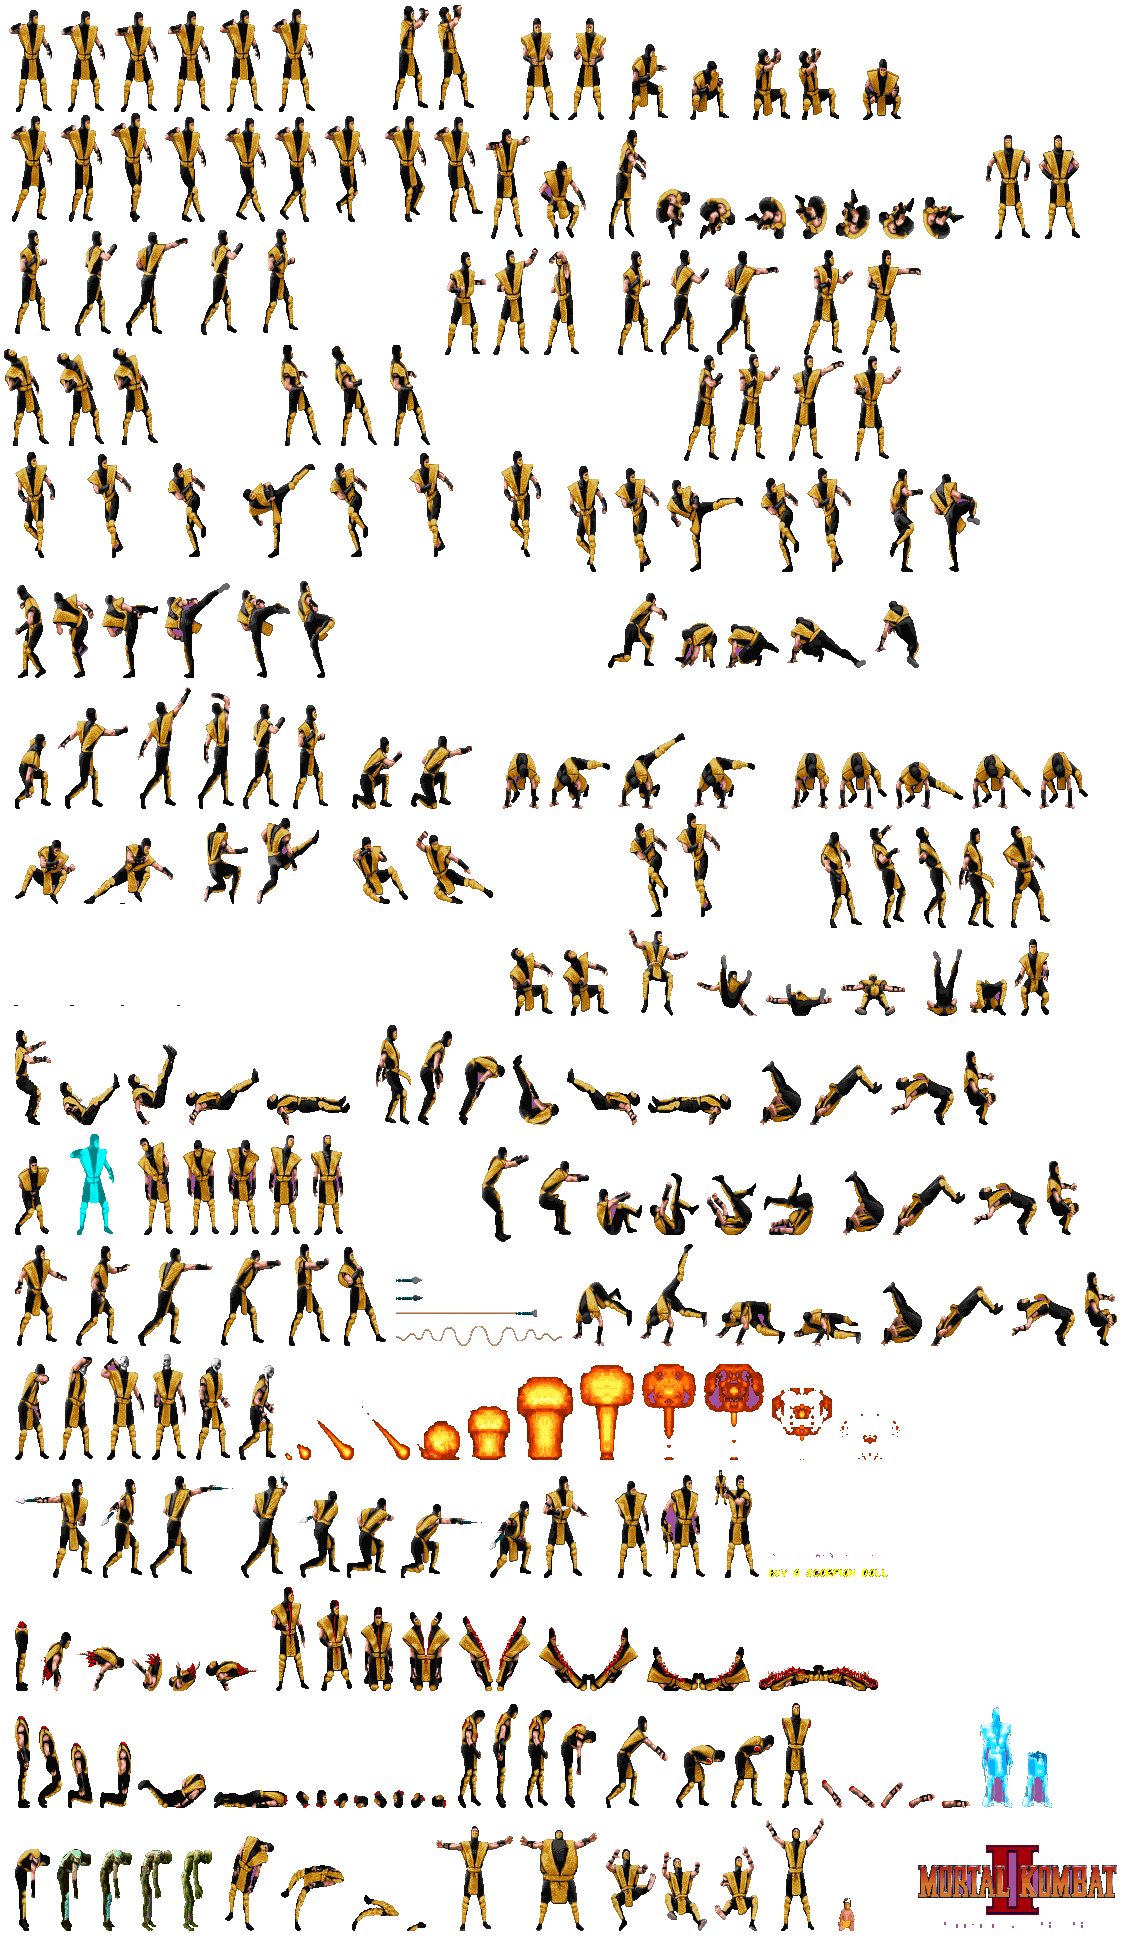
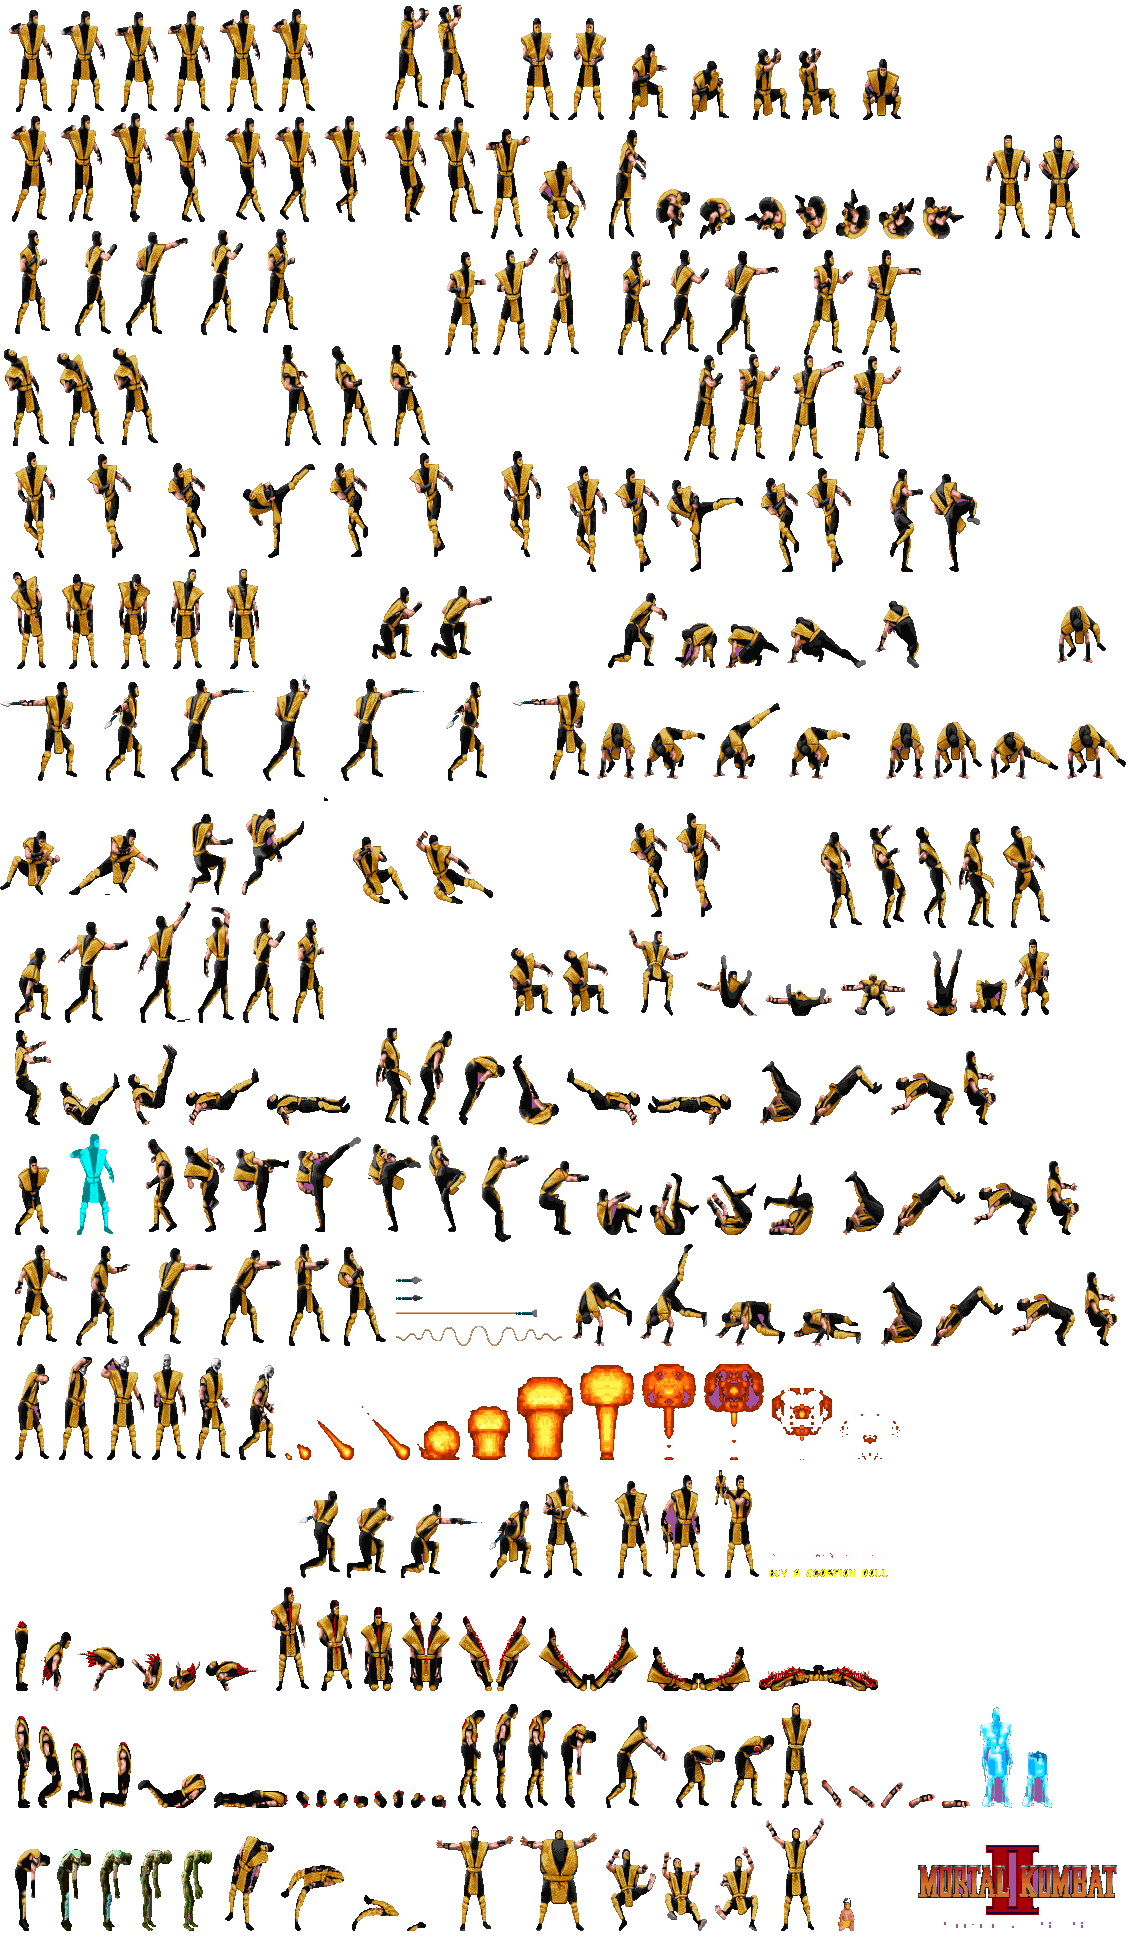
add kick collision and scorpion fatalities with resurrection bug

diff --git a/core/hero.c b/core/hero.c
@@ -53,11 +53,28 @@ void hero_init(SDL_Renderer* renderer, hero_t* hero, SDL_Rect sprite_rect, const
     animation_set_loop(&kick_anim, 0);
     kick_anim.name = KICK;
 
+    animation_t die_anim;
+    animation_init(&die_anim, 5, 100, create_rect(0, 560, 54, 112));
+    die_anim.name = DIE;
+
+    animation_t fatality_anim;
+    animation_init(&fatality_anim, 5, 100, create_rect(0, 672, 85, 112));
+    animation_set_loop(&fatality_anim, 0);
+    fatality_anim.name = FATALITY;
+
+    animation_t get_fatality_anim;
+    animation_init(&get_fatality_anim, 6, 140, create_rect(0, 784, 80, 112));
+    animation_set_loop(&get_fatality_anim, 0);
+    get_fatality_anim.name = GET_FATALITY;
+
     hero->animations[IDLE] = idle_anim;
     hero->animations[WALK] = walk_anim;
     hero->animations[PUNCH] = punch_anim;
     hero->animations[GET_PUNCH] = get_punch_anim;
     hero->animations[KICK] = kick_anim;
+    hero->animations[FATALITY] = fatality_anim;
+    hero->animations[GET_FATALITY] = get_fatality_anim;
+    hero->animations[DIE] = die_anim;
 
     hero->curr_anim = idle_anim;
     animation_play(&hero->curr_anim, &hero->sprite);
@@ -65,56 +82,69 @@ void hero_init(SDL_Renderer* renderer, hero_t* hero, SDL_Rect sprite_rect, const
 
 void hero_input(SDL_Renderer* renderer, hero_t* hero, int num_keys_pressed, const Uint8* keys) 
 {
-    if(num_keys_pressed > 0 && (hero->curr_anim.name == IDLE || hero->curr_anim.name == WALK))
+    if(hero->health > 0)
     {
-        if(keys[hero->keycode_input[INPUT_PUNCH]]) 
+        if(num_keys_pressed > 0 && (hero->curr_anim.name == IDLE || hero->curr_anim.name == WALK))
         {
-            hero->character.speed.x = 0;
-            hero->curr_anim = hero->animations[PUNCH];
-            animation_play(&hero->curr_anim, &hero->sprite);
-        }
-        else if(keys[hero->keycode_input[INPUT_KICK]])
-        {
-            hero->character.speed.x = 0;
-            hero->curr_anim = hero->animations[KICK];
-            animation_play(&hero->curr_anim, &hero->sprite);                                                                             
-        }
-        else if(keys[hero->keycode_input[INPUT_WALK_LEFT]])
-        {
-            hero->character.speed.x = -(hero->move_speed.x);
-            if(hero->curr_anim.name != WALK)
+            if(keys[hero->keycode_input[INPUT_PUNCH]]) 
             {
-                hero->curr_anim = hero->animations[WALK];
-                if(hero->player == Player_One)
-                    animation_set_reversed(&hero->curr_anim);
+                hero->character.speed.x = 0;
+                hero->curr_anim = hero->animations[PUNCH];
+                animation_play(&hero->curr_anim, &hero->sprite);
+            }
+            else if(keys[hero->keycode_input[INPUT_KICK]])
+            {
+                hero->character.speed.x = 0;
+                hero->curr_anim = hero->animations[KICK];
+                animation_play(&hero->curr_anim, &hero->sprite);                                                                             
+            }
+            else if(keys[hero->keycode_input[INPUT_WALK_LEFT]])
+            {
+                hero->character.speed.x = -(hero->move_speed.x);
+                if(hero->curr_anim.name != WALK)
+                {
+                    hero->curr_anim = hero->animations[WALK];
+                    if(hero->player == Player_One)
+                        animation_set_reversed(&hero->curr_anim);
+                    animation_play(&hero->curr_anim, &hero->sprite);   
+                }
+            }
+            else if(keys[hero->keycode_input[INPUT_WALK_RIGHT]]) 
+            {
+                hero->character.speed.x = hero->move_speed.x;
+                if(hero->curr_anim.name != WALK)
+                {
+                    hero->curr_anim = hero->animations[WALK];
+                    if(hero->player == Player_Two)
+                        animation_set_reversed(&hero->curr_anim);
+                    animation_play(&hero->curr_anim, &hero->sprite);  
+                }
+            }
+            else if(keys[hero->keycode_input[INPUT_FATALITY]])
+            {
+                if(hero->rival && hero->rival->health <= 0 && hero->rival->curr_anim.name != GET_FATALITY) 
+                {
+                    hero->curr_anim = hero->animations[FATALITY];
+                    animation_play(&hero->curr_anim, &hero->sprite);   
+                    hero_get_fatality(hero->rival);
+                }
+            }
+            
+            if(keys[SDL_SCANCODE_SPACE]) 
+            {
+                //hero->health = 0;
+                hero->curr_anim = hero->animations[FATALITY];
                 animation_play(&hero->curr_anim, &hero->sprite);   
             }
         }
-        else if(keys[hero->keycode_input[INPUT_WALK_RIGHT]]) 
+        else 
         {
-            hero->character.speed.x = hero->move_speed.x;
-            if(hero->curr_anim.name != WALK)
+            hero->character.speed.x = 0;
+            if(hero->curr_anim.is_playing == 0 || hero->curr_anim.name == WALK)
             {
-                hero->curr_anim = hero->animations[WALK];
-                if(hero->player == Player_Two)
-                    animation_set_reversed(&hero->curr_anim);
-                animation_play(&hero->curr_anim, &hero->sprite);  
+            hero->curr_anim = hero->animations[IDLE];
+            animation_play(&hero->curr_anim, &hero->sprite);  
             }
-        }
-        //debug if
-        // if(event->key.keysym.sym == SDLK_ctrl) 
-        // {
-        //     hero->curr_anim = hero->animations[GET_PUNCH];
-        //     animation_play(&hero->curr_anim, &hero->sprite);   
-        // }
-    }
-    else 
-    {
-        hero->character.speed.x = 0;
-        if(hero->curr_anim.is_playing == 0 || hero->curr_anim.name == WALK)
-        {
-           hero->curr_anim = hero->animations[IDLE];
-           animation_play(&hero->curr_anim, &hero->sprite);  
         }
     }
 }
@@ -150,14 +180,16 @@ void on_collision_enter(collider_t* my_collider, collider_t* other_collider)
 {
     hero_t* my_hero = (hero_t*) my_collider->owner;
     hero_t* other_hero = (hero_t*) other_collider->owner;
-    //SDL_Log("my_hero health %d", my_hero->health);
-    //SDL_Log("other_hero health %d", other_hero->health);
 
     if(other_hero)
     {
         if(my_hero->curr_anim.name == PUNCH && my_hero->curr_anim.curr_frame == 2) 
         {
             hero_get_punch(other_hero, my_hero->punch_damage);
+        }
+        else if(my_hero->curr_anim.name == KICK && my_hero->curr_anim.curr_frame == 4) 
+        {
+            hero_get_kick(other_hero, my_hero->kick_damage);
         }
     }
 }
@@ -177,8 +209,22 @@ void hero_get_punch(hero_t* hero, int damage)
     }
 }
 
+void hero_get_kick(hero_t* hero, int damage)
+{
+    //to modify
+    hero_get_punch(hero, hero->kick_damage);
+}
+
+void hero_get_fatality(hero_t* hero) 
+{
+    hero->curr_anim = hero->animations[GET_FATALITY];
+    animation_play(&hero->curr_anim, &hero->sprite);   
+}
+
 void hero_die(hero_t* hero)
 {
-    SDL_Log("Die");
+    hero->character.speed.x = 0;
+    hero->curr_anim = hero->animations[DIE];
+    animation_play(&hero->curr_anim, &hero->sprite);   
 }
 

diff --git a/main.c b/main.c
@@ -21,8 +21,8 @@ int main(int argc, char** args)
     SDL_Rect sprite_rect;
     sprite_rect.x = 150;
     sprite_rect.y = 300;
-    sprite_rect.w = 70;
-    sprite_rect.h = 132;
+    sprite_rect.w = 100;
+    sprite_rect.h = 150;
 
     hero_t hero, hero2;
     hero_init(renderer, &hero, sprite_rect, "Assets/Heroes/sub_zero_sheet.png", Player_One);
@@ -30,6 +30,7 @@ int main(int argc, char** args)
     hero.keycode_input[INPUT_WALK_LEFT] = SDL_SCANCODE_A;
     hero.keycode_input[INPUT_PUNCH] = SDL_SCANCODE_F;
     hero.keycode_input[INPUT_KICK] = SDL_SCANCODE_G;
+    hero.keycode_input[INPUT_FATALITY] = SDL_SCANCODE_E;
 
     sprite_rect.x *= 2;  //era *3
     hero_init(renderer, &hero2, sprite_rect, "Assets/Heroes/scorpion_sheet.png", Player_Two);
@@ -37,7 +38,11 @@ int main(int argc, char** args)
     hero2.keycode_input[INPUT_WALK_LEFT] = SDL_SCANCODE_LEFT;
     hero2.keycode_input[INPUT_PUNCH] = SDL_SCANCODE_L;
     hero2.keycode_input[INPUT_KICK] = SDL_SCANCODE_K;
+    hero2.keycode_input[INPUT_FATALITY] = SDL_SCANCODE_P;
     hero_flip_X(&hero2);
+
+    hero.rival = &hero2;
+    hero2.rival = &hero;
 
     collision_mng_add_collider(&collision_mng, &hero.collider);
     collision_mng_add_collider(&collision_mng, &hero2.collider);
@@ -81,7 +86,6 @@ int main(int argc, char** args)
         //all draw
         hero_draw(renderer, &hero);
         hero_draw(renderer, &hero2);
-        //sprite_draw(renderer, &sprite);
 
         SDL_RenderPresent(renderer);
     }

diff --git a/core/header/hero.h b/core/header/hero.h
@@ -7,11 +7,16 @@
 #define PUNCH 2
 #define GET_PUNCH 3
 #define KICK 4
+#define GET_KICK 5
+#define FATALITY 6
+#define GET_FATALITY 7
+#define DIE 8
 
 #define INPUT_WALK_RIGHT  0
 #define INPUT_WALK_LEFT  1
 #define INPUT_PUNCH 2
 #define INPUT_KICK 3
+#define INPUT_FATALITY 4
 
 enum Player {Player_One = 1, Player_Two = 2};
 
@@ -26,8 +31,9 @@ typedef struct hero
     character_t character;
     collider_t collider;
     animation_t curr_anim;
-    animation_t animations[KICK + 1];
-    SDL_Keycode keycode_input[INPUT_KICK + 1]; 
+    animation_t animations[DIE + 1];
+    SDL_Keycode keycode_input[INPUT_FATALITY + 1]; 
+    struct hero* rival;
 } hero_t;
 
 void hero_init(SDL_Renderer* renderer, hero_t* hero, SDL_Rect sprite_rect, const char* texture_name, enum Player player);
@@ -36,6 +42,8 @@ void hero_input(SDL_Renderer* renderer, hero_t* hero, int num_keys_pressed, cons
 void hero_draw(SDL_Renderer* renderer, hero_t* hero);
 void hero_flip_X(hero_t* hero);
 void hero_get_punch(hero_t* hero, int damage);
+void hero_get_kick(hero_t* hero, int damage);
+void hero_get_fatality(hero_t* hero);
 void hero_die(hero_t*hero);
 void on_collision_enter(collider_t* my_collider, collider_t* other_collider);
 
